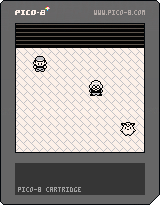
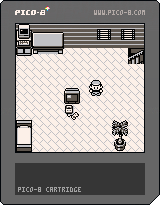
Fix another bug regarding collision detection

diff --git a/docs/pokemon_study.js b/docs/pokemon_study.js
@@ -68,11 +68,11 @@ var _cartdat=[
 0,0,0,0,0,0,0,0,0,0,0,0,0,0,0,0,0,16,0,0,0,0,0,0,0,0,0,0,0,0,0,0,0,0,0,0,0,0,0,0,0,0,0,0,0,0,0,0,0,0,0,0,0,0,0,0,0,0,0,0,0,0,0,0,0,0,0,0,0,0,0,0,0,0,0,0,0,0,0,0,0,0,0,0,0,16,0,0,0,0,0,0,0,0,0,0,0,0,0,0,0,0,0,0,0,0,0,0,0,0,0,0,0,0,0,0,0,0,0,0,0,0,0,0,0,0,0,0,0,0,0,0,0,0,0,0,0,0,0,0,0,0,0,0,0,0,0,0,0,0,0,0,0,16,0,0,0,0,0,0,0,0,0,0,0,0,0,0,0,0,0,0,0,0,0,0,0,0,0,0,0,0,0,0,0,0,0,0,0,0,0,0,0,0,0,0,0,0,0,0,0,0,0,0,0,0,0,0,0,0,0,0,0,0,0,0,0,0,0,0,0,16,0,0,0,0,0,0,0,0,0,0,0,0,0,0,0,0,0,0,0,0,0,0,0,0,0,0,0,0,0,0,0,0,0,0,
 0,0,0,0,0,0,0,0,0,0,0,0,0,0,0,0,0,0,0,0,0,0,0,0,0,0,0,0,0,0,0,0,0,16,0,0,0,0,0,0,0,0,0,0,0,0,0,0,0,0,0,0,0,0,0,0,0,0,0,0,0,0,0,0,0,0,0,0,0,0,0,0,0,0,0,0,0,0,0,0,0,0,0,0,0,0,0,0,0,0,0,0,0,0,0,0,0,0,0,0,0,16,0,0,0,0,0,0,0,0,0,0,0,0,0,0,0,0,0,0,0,0,0,0,0,0,0,0,0,0,0,0,0,0,0,0,0,0,0,0,0,0,0,0,0,0,0,0,0,0,0,0,0,0,0,0,0,0,0,0,0,0,0,0,0,0,0,0,0,16,0,0,0,0,0,0,0,0,0,0,0,0,0,0,0,0,0,0,0,0,0,0,0,0,0,0,0,0,0,0,0,0,0,0,0,0,0,0,0,0,0,0,0,0,0,0,0,0,0,0,0,0,0,0,0,0,0,0,0,0,0,0,0,0,0,0,0,16,0,0,0,0,0,0,0,0,0,0,0,0,0,0,0,0,0,0,
 0,0,0,0,0,0,0,0,0,0,0,0,0,0,0,0,0,0,0,0,0,0,0,0,0,0,0,0,0,0,0,0,0,0,0,0,0,0,0,0,0,0,0,0,0,0,0,0,0,16,0,0,0,0,0,0,0,0,0,0,0,0,0,0,0,0,0,0,0,0,0,0,0,0,0,0,0,0,0,0,0,0,0,0,0,0,0,0,0,0,0,0,0,0,0,0,0,0,0,0,0,0,0,0,0,0,0,0,0,0,0,0,0,0,0,0,0,16,0,0,0,0,0,0,0,0,0,0,0,0,0,0,0,0,0,0,0,0,0,0,0,0,0,0,0,0,0,0,0,0,0,0,0,0,0,0,0,0,0,0,0,0,0,0,0,0,0,0,0,0,0,0,0,0,0,0,0,0,0,0,0,0,0,0,0,16,0,0,0,0,0,0,0,0,0,0,0,0,0,0,0,0,0,0,0,0,0,0,0,0,0,0,0,0,0,0,0,0,0,0,0,0,0,0,0,0,0,0,0,0,0,0,0,0,0,0,0,0,0,0,0,0,0,0,0,0,0,0,0,0,0,0,0,16,0,0,
-0,112,120,97,16,235,4,188,2,192,172,206,109,140,46,237,205,13,196,173,236,238,43,108,14,13,5,143,5,36,47,69,1,4,4,4,132,13,224,254,163,111,190,126,212,19,193,69,197,91,20,47,225,2,239,152,225,41,142,104,46,63,255,21,92,49,223,212,79,241,8,81,168,20,242,6,246,120,128,129,129,119,120,129,44,207,234,238,21,50,119,156,212,117,85,60,208,53,242,34,15,48,179,240,18,221,75,152,166,124,141,81,117,33,225,97,209,129,3,117,194,250,139,54,218,166,44,212,199,60,210,20,35,35,103,105,136,63,182,63,175,138,15,211,13,30,169,164,195,223,147,162,211,138,197,160,56,173,216,120,135,186,87,25,86,26,22,46,93,112,123,100,5,14,211,13,56,78,45,124,250,2,205,80,167,92,52,146,108,4,3,35,2,10,218,133,210,226,143,32,185,100,147,116,19,146,116,161,27,148,10,127,117,143,71,149,78,131,254,182,98,112,104,227,58,85,241,35,149,91,80,22,247,218,75,232,138,255,207,174,130,106,160,43,254,255,30,93,120,136,37,201,242,255,247,156,
-100,249,255,83,68,74,180,252,255,169,44,254,99,103,216,243,243,187,188,47,109,248,95,123,181,56,76,47,14,127,107,220,75,88,252,240,137,170,253,163,13,111,125,250,67,14,254,63,202,122,36,111,194,133,149,186,235,198,86,77,34,7,191,89,65,116,212,43,43,115,81,219,11,231,67,25,254,255,39,49,126,107,139,75,89,252,255,180,225,127,232,151,255,152,72,22,196,203,255,255,211,136,191,21,198,127,133,242,232,41,196,145,146,177,5,41,245,79,40,252,145,141,63,181,88,229,159,37,223,223,141,98,118,184,23,122,7,66,133,41,249,195,248,149,226,135,241,171,230,101,61,43,152,191,115,83,213,210,198,200,110,187,19,132,17,14,5,67,87,216,104,174,97,89,47,245,46,8,99,40,10,167,222,252,127,8,11,228,27,19,19,250,44,229,121,50,227,92,73,246,44,113,34,255,133,216,168,178,208,70,186,166,106,31,109,79,189,249,191,18,67,105,37,49,254,255,20,55,143,56,199,172,218,248,31,13,250,31,154,230,255,127,169,153,255,17,160,191,245,204,86,245,204,255,255,255,
-133,18,225,127,55,222,162,152,40,119,72,51,160,104,154,34,85,152,143,202,199,75,68,209,196,219,128,103,248,165,254,15,197,71,247,63,224,30,168,227,162,240,111,85,145,71,82,21,255,143,124,76,83,252,255,223,39,82,42,255,15,33,55,169,242,255,63,159,69,0,253,63,244,155,4,208,255,63,74,236,127,155,102,137,84,196,47,34,16,20,85,135,184,254,161,226,254,55,134,202,112,169,133,66,145,248,45,20,127,96,98,160,76,196,188,167,130,0,234,196,167,84,84,34,157,184,28,5,117,34,251,166,178,211,234,224,248,92,48,177,232,26,65,239,205,197,42,48,204,220,136,45,198,22,239,92,172,230,99,195,100,81,20,71,173,209,108,18,178,104,192,182,47,38,179,133,80,237,91,79,72,61,28,101,166,30,126,44,170,135,179,144,15,150,37,151,98,159,46,57,231,102,118,100,201,113,104,42,75,126,84,133,46,89,32,75,54,41,75,174,169,5,233,240,164,138,230,63,148,195,207,145,149,149,65,221,241,116,114,168,101,41,60,254,191,59,85,157,136,169,227,82,49,229,33,213,
-98,237,113,138,169,47,9,203,225,37,249,240,12,172,138,15,215,114,234,149,15,255,178,108,163,143,149,220,209,42,57,43,151,67,201,45,19,114,27,17,15,223,170,114,120,68,143,101,139,75,213,242,95,83,245,128,236,198,132,132,60,50,173,230,66,67,30,107,219,10,226,255,51,162,32,126,70,10,226,255,69,26,227,214,236,66,244,112,207,169,84,204,66,203,192,90,89,38,83,42,43,244,47,40,135,181,157,140,13,170,248,79,45,68,4,47,140,125,48,103,179,106,219,14,3,90,225,86,23,213,202,171,42,31,84,54,211,11,90,212,11,255,252,50,142,245,1,155,226,66,138,129,181,248,63,104,87,252,255,191,100,43,215,58,207,126,240,18,129,181,237,211,244,129,71,22,228,81,200,66,120,113,96,111,66,56,36,201,6,162,53,249,2,173,129,96,49,204,247,195,52,77,194,133,54,49,65,122,128,42,250,86,186,244,210,76,150,163,236,235,88,38,163,212,231,104,19,9,161,44,154,20,239,88,137,243,104,55,145,9,152,206,90,61,65,17,17,101,245,133,19,109,31,207,52,238,
-72,243,190,213,96,152,232,2,168,21,88,109,218,234,240,34,44,213,27,180,4,114,231,52,44,44,34,185,98,147,153,149,94,160,125,60,54,220,12,212,105,161,251,180,165,127,158,183,8,132,223,221,11,191,87,3,81,249,253,95,160,252,102,163,108,205,14,51,24,41,162,254,254,187,81,127,179,145,102,208,138,102,248,15,5,248,171,80,128,255,255,207,55,48,39,34,28,176,86,141,22,39,72,150,90,77,137,208,68,21,87,134,255,159,106,214,186,171,208,50,92,147,91,91,69,175,163,163,170,117,5,105,134,143,35,8,12,229,131,181,245,120,122,85,61,76,58,28,12,29,24,164,68,29,126,73,133,87,173,119,107,106,33,12,125,48,56,86,197,154,2,168,65,100,215,229,32,38,81,177,84,226,191,68,46,30,193,12,0,0,0,0,0,0,0,0,0,0,0,0,0,0,0,0,0,0,0,0,0,0,0,0,0,0,0,0,0,0,0,0,0,0,0,0,0,0,0,0,0,0,0,0,0,0,0,0,0,0,0,0,0,0,0,0,0,0,0,0,0,0,0,0,0,0,0,0,
+0,112,120,97,16,231,4,188,2,192,172,206,109,140,46,237,205,13,196,173,236,238,43,108,14,13,5,143,5,36,47,69,1,4,4,4,132,13,224,254,163,111,190,126,212,19,193,69,197,91,20,47,225,2,239,152,225,41,142,104,46,63,255,21,92,49,223,212,79,241,8,81,168,20,242,6,246,120,128,129,129,119,120,129,44,207,234,238,21,50,119,156,212,117,85,60,208,53,242,34,15,48,179,240,18,221,75,152,166,124,141,81,117,33,225,97,209,129,3,117,194,250,139,54,218,166,44,212,199,60,210,20,35,35,103,105,136,63,182,63,175,138,15,211,13,30,169,164,195,223,147,162,211,138,197,160,56,173,216,120,135,186,87,25,86,26,22,46,93,112,123,100,5,14,211,13,56,78,45,124,250,2,205,80,167,92,52,146,108,4,3,35,2,10,218,133,210,226,143,32,185,100,147,116,19,146,116,161,27,148,10,127,117,143,71,149,78,131,254,182,98,112,104,227,58,85,241,35,149,91,80,22,247,218,75,232,138,255,207,174,130,106,160,43,254,255,30,93,120,136,37,201,242,255,247,156,
+100,249,255,83,68,74,180,252,255,169,44,254,99,103,216,243,243,187,188,47,109,248,95,123,181,56,76,47,14,127,107,220,75,88,252,240,137,170,253,163,13,111,125,250,67,14,254,63,202,122,36,111,194,133,149,186,235,198,86,77,34,7,191,89,65,116,212,43,43,115,81,219,11,231,67,25,254,255,39,49,126,107,139,75,89,252,255,180,225,127,232,151,255,152,72,22,196,203,255,255,211,136,191,229,203,255,47,16,70,42,198,22,100,200,191,84,40,252,144,140,63,117,88,165,159,229,222,223,141,100,118,184,23,121,7,62,133,169,248,195,248,149,225,135,241,171,228,101,61,43,152,191,115,83,213,210,198,200,110,188,19,132,17,10,5,3,87,216,104,175,95,89,47,245,46,8,99,32,10,167,214,252,127,8,11,228,27,11,19,218,44,229,121,50,227,92,73,246,44,113,34,251,133,216,168,178,208,70,186,166,104,31,93,79,173,249,191,18,67,105,37,49,254,255,20,55,143,48,199,172,218,248,31,253,249,31,154,230,255,127,169,153,255,17,159,191,245,204,86,245,204,255,255,255,133,17,
+225,127,55,222,162,152,40,119,40,51,160,104,154,34,85,152,143,194,199,75,68,209,196,219,64,103,248,165,252,15,197,71,247,63,208,30,168,227,162,238,111,85,145,71,82,21,255,143,124,76,83,252,255,223,39,82,42,255,15,33,55,169,242,255,63,159,69,0,253,63,244,155,4,208,255,63,74,236,127,155,102,137,82,196,47,26,16,20,85,135,184,254,161,226,254,55,6,202,112,169,133,2,145,248,45,20,127,32,98,160,76,196,188,167,130,0,232,196,167,84,84,226,156,184,28,5,116,34,251,166,178,211,234,224,248,92,48,177,232,26,65,239,205,197,42,48,204,220,136,45,198,22,239,92,172,230,99,195,100,81,20,71,173,209,108,18,114,104,192,182,47,38,179,133,80,237,91,79,72,61,28,101,166,30,126,44,170,135,179,144,15,150,37,151,98,159,46,57,231,102,118,100,201,113,104,42,75,126,84,133,46,89,32,75,54,41,75,174,169,5,233,240,164,138,230,63,148,195,207,145,149,149,65,221,241,116,114,168,101,41,60,254,191,59,85,157,136,169,227,82,49,229,33,213,98,237,
+113,138,169,47,9,203,225,37,249,240,12,172,138,15,215,114,234,149,15,255,178,108,163,143,149,220,209,42,57,43,151,67,201,45,19,114,27,17,15,223,170,114,120,68,143,101,139,75,213,242,95,83,245,128,236,198,132,132,60,50,173,230,66,67,30,107,219,10,226,255,51,162,32,126,70,10,226,255,69,25,227,214,236,66,244,112,207,169,84,204,2,203,192,90,89,38,83,42,43,228,47,40,135,181,157,140,13,170,248,79,45,68,4,47,140,125,48,103,179,106,219,14,3,90,225,86,23,213,202,171,42,31,84,54,211,11,90,212,11,255,252,50,142,245,1,155,226,66,138,129,181,248,63,72,87,252,255,191,100,43,215,58,207,126,240,18,129,181,237,211,244,129,71,22,228,81,200,66,120,113,96,111,66,56,36,201,6,162,53,249,2,173,129,96,49,204,247,195,52,77,194,133,54,49,65,122,128,42,250,86,186,244,210,76,150,163,236,235,88,38,163,212,231,104,19,9,161,44,154,20,239,88,137,243,104,55,145,9,152,206,90,61,65,17,17,101,245,133,19,109,31,207,52,238,72,243,
+190,213,96,152,232,2,160,21,88,109,218,234,240,34,44,213,27,180,4,114,231,52,28,44,34,185,98,147,153,149,94,160,125,44,54,220,12,212,105,161,251,180,165,127,158,183,8,132,223,221,11,191,87,3,81,249,253,95,160,252,102,163,108,205,14,51,201,86,177,169,254,254,187,82,127,179,145,102,208,142,102,248,15,5,248,171,80,128,255,255,207,55,48,39,34,28,48,23,141,22,39,72,150,90,77,137,208,68,21,87,134,255,159,106,214,186,171,208,50,92,155,107,107,197,130,142,142,170,214,21,164,25,62,134,32,48,148,15,246,214,227,233,89,245,48,233,112,48,116,96,144,18,117,248,37,21,94,181,222,181,177,133,48,244,193,228,92,21,107,10,96,6,145,93,71,130,152,68,197,82,137,255,18,185,120,4,51,0,0,0,0,0,0,0,0,0,0,0,0,0,0,0,0,0,0,0,0,0,0,0,0,0,0,0,0,0,0,0,0,0,0,0,0,0,0,0,0,0,0,0,0,0,0,0,0,0,0,0,0,0,0,0,0,0,0,0,0,0,0,0,0,0,0,0,0,0,
 0,0,0,0,0,0,0,0,0,0,0,0,0,0,0,0,0,0,0,0,0,0,0,0,0,0,0,0,0,0,0,0,0,0,0,0,0,0,0,0,0,0,0,0,0,0,0,0,0,0,0,0,0,0,0,0,0,0,0,0,0,0,0,0,0,0,0,0,0,0,0,0,0,0,0,0,0,0,0,0,0,0,0,0,0,0,0,0,0,0,0,0,0,0,0,0,0,0,0,0,0,0,0,0,0,0,0,0,0,0,0,0,0,0,0,0,0,0,0,0,0,0,0,0,0,0,0,0,0,0,0,0,0,0,0,0,0,0,0,0,0,0,0,0,0,0,0,0,0,0,0,0,0,0,0,0,0,0,0,0,0,0,0,0,0,0,0,0,0,0,0,0,0,0,0,0,0,0,0,0,0,0,0,0,0,0,0,0,0,0,0,0,0,0,0,0,0,0,0,0,0,0,0,0,0,0,0,0,0,0,0,0,0,0,0,0,0,0,0,0,0,0,0,0,0,0,0,0,0,0,0,0,0,0,0,0,0,0,0,0,0,0,0,0,0,0,0,0,0,0,0,0,0,0,0,0,
 0,0,0,0,0,0,0,0,0,0,0,0,0,0,0,0,0,0,0,0,0,0,0,0,0,0,0,0,0,0,0,0,0,0,0,0,0,0,0,0,0,0,0,0,0,0,0,0,0,0,0,0,0,0,0,0,0,0,0,0,0,0,0,0,0,0,0,0,0,0,0,0,0,0,0,0,0,0,0,0,0,0,0,0,0,0,0,0,0,0,0,0,0,0,0,0,0,0,0,0,0,0,0,0,0,0,0,0,0,0,0,0,0,0,0,0,0,0,0,0,0,0,0,0,0,0,0,0,0,0,0,0,0,0,0,0,0,0,0,0,0,0,0,0,0,0,0,0,0,0,0,0,0,0,0,0,0,0,0,0,0,0,0,0,0,0,0,0,0,0,0,0,0,0,0,0,0,0,0,0,0,0,0,0,0,0,0,0,0,0,0,0,0,0,0,0,0,0,0,0,0,0,0,0,0,0,0,0,0,0,0,0,0,0,0,0,0,0,0,0,0,0,0,0,0,0,0,0,0,0,0,0,0,0,0,0,0,0,0,0,0,0,0,0,0,0,0,0,0,0,0,0,0,0,0,0,
 0,0,0,0,0,0,0,0,0,0,0,0,0,0,0,0,0,0,0,0,0,0,0,0,0,0,0,0,0,0,0,0,0,0,0,0,0,0,0,0,0,0,0,0,0,0,0,0,0,0,0,0,0,0,0,0,0,0,0,0,0,0,0,0,0,0,0,0,0,0,0,0,0,0,0,0,0,0,0,0,0,0,0,0,0,0,0,0,0,0,0,0,0,0,0,0,0,0,0,0,0,0,0,0,0,0,0,0,0,0,0,0,0,0,0,0,0,0,0,0,0,0,0,0,0,0,0,0,0,0,0,0,0,0,0,0,0,0,0,0,0,0,0,0,0,0,0,0,0,0,0,0,0,0,0,0,0,0,0,0,0,0,0,0,0,0,0,0,0,0,0,0,0,0,0,0,0,0,0,0,0,0,0,0,0,0,0,0,0,0,0,0,0,0,0,0,0,0,0,0,0,0,0,0,0,0,0,0,0,0,0,0,0,0,0,0,0,0,0,0,0,0,0,0,0,0,0,0,0,0,0,0,0,0,0,0,0,0,0,0,0,0,0,0,0,0,0,0,0,0,0,0,0,0,0,0,

diff --git a/docs/index.html b/docs/index.html
@@ -982,7 +982,7 @@ canvas{
 
 .p8_start_button{
 	cursor:pointer;
[2 lines of base64/hex data omitted]
 	-repeat center;
 	-webkit-background-size:cover; -moz-background-size:cover; -o-background-size:cover; background-size:cover;
 }
